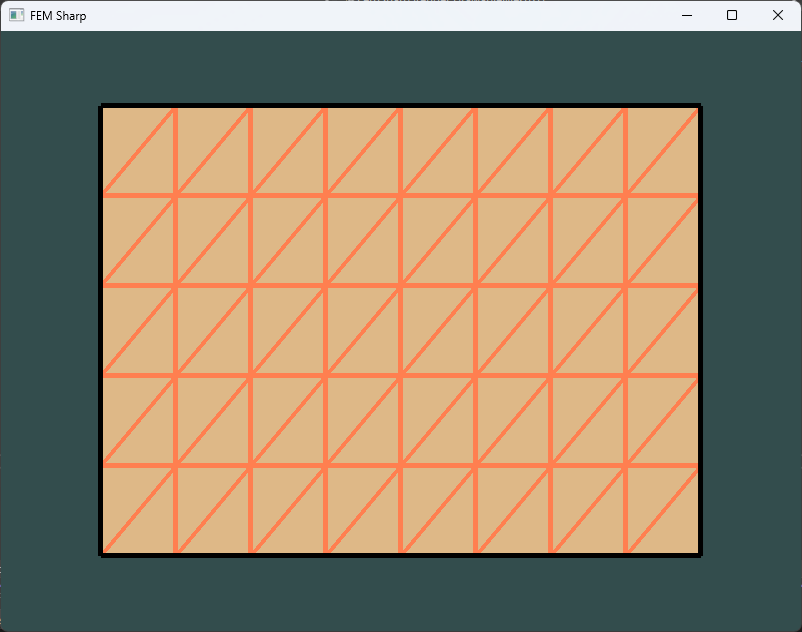
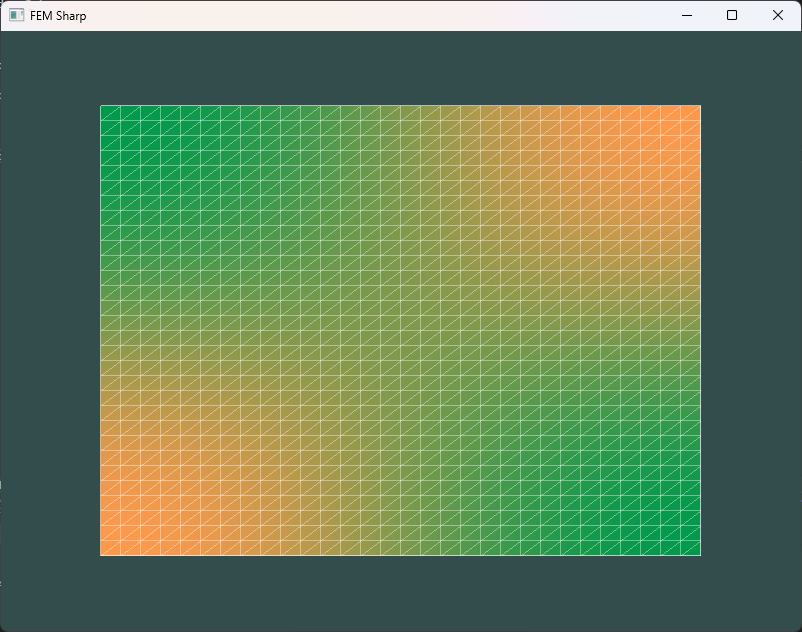
Update preview picture, check if LaTeX works in the readme

diff --git a/README.md b/README.md
@@ -2,5 +2,6 @@
 
 Finite Element Method using C#/.NET and visualization with OpenGL.
 
-Currently, it is only able to generate and draw a naive rectangular mesh.
+Currently, it is only able to solve a simple Helmholtz equation with a source.
+$$-\nabla^2u + ku = f$$
 ![Application screenshot, a simple generated rectangular mesh.](naive_rectangle.png)
